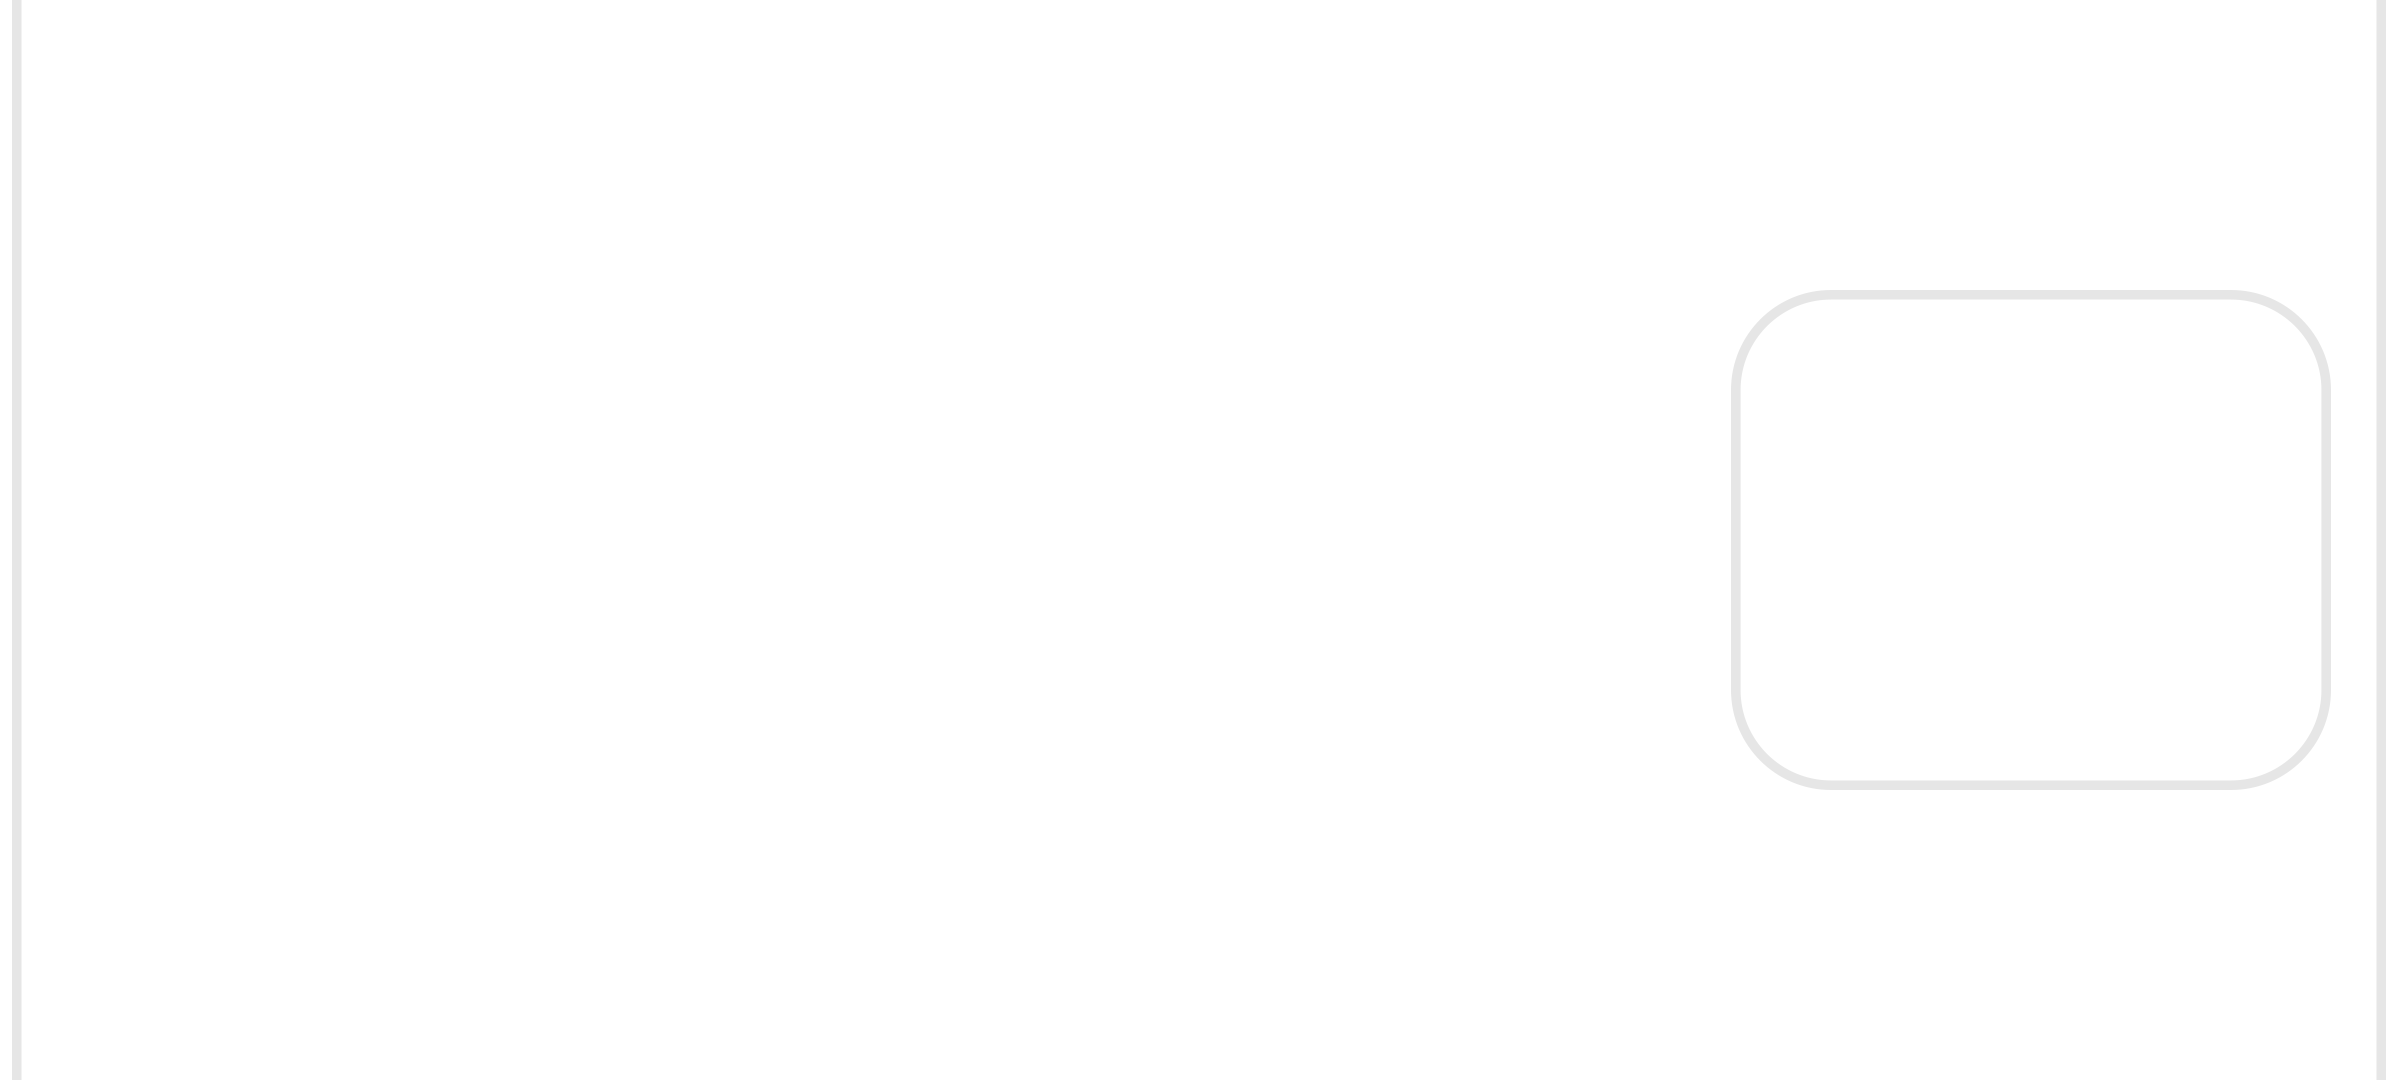
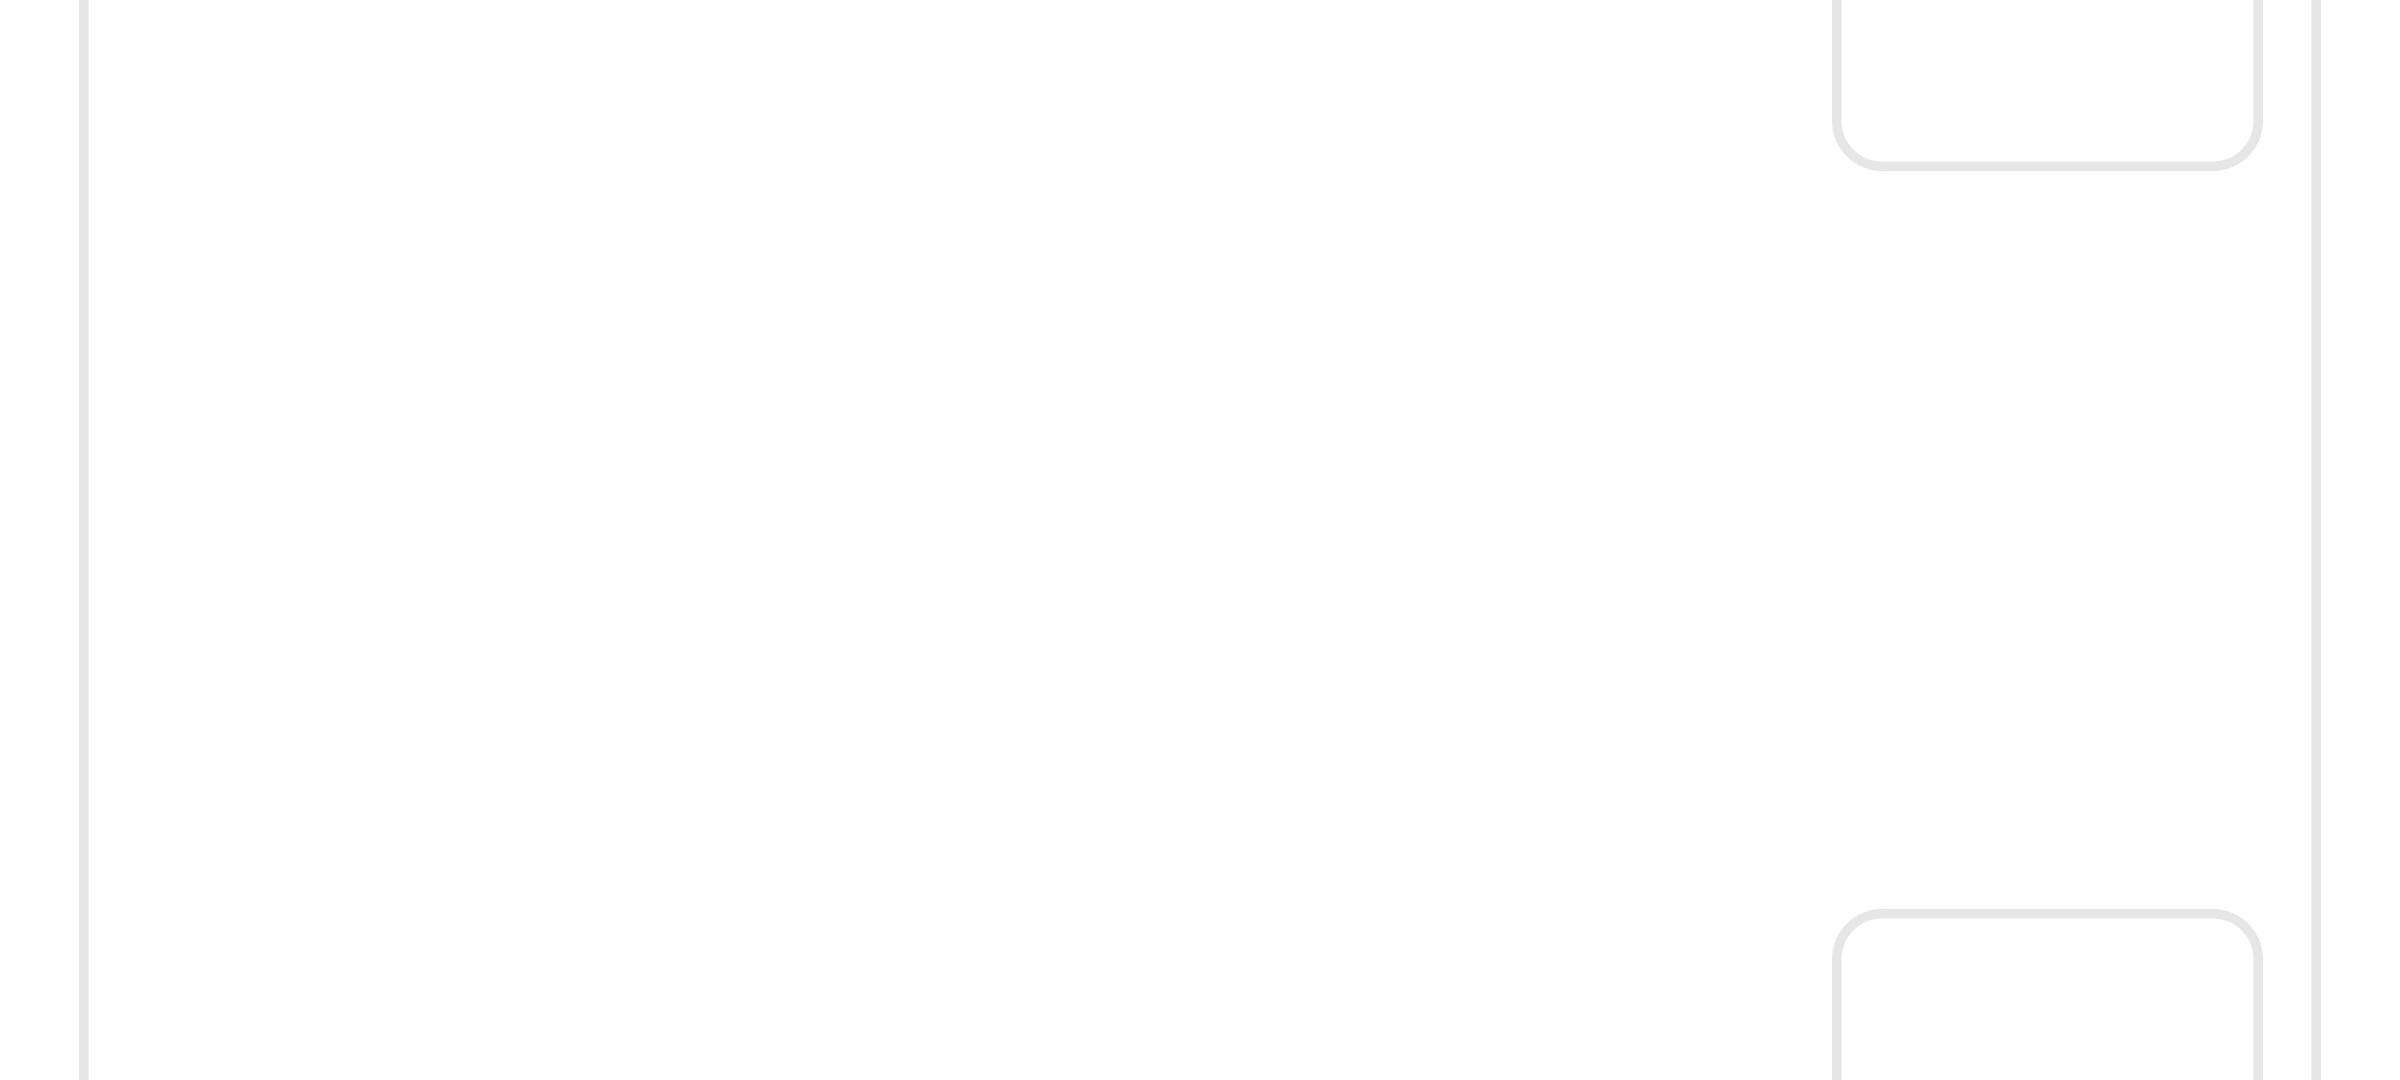
adjusted film fx

diff --git a/portfolio.md b/portfolio.md
@@ -71,8 +71,8 @@ html, body {
   /* For browsers that do not support gradients */
   /* background-image: linear-gradient(#55646e, #c8c8c8 20%);  url('https://raw.githubusercontent.com/BillyJoelsNightmareExplosion/BillyJoelsNightmareExplosion.github.io/master/_files/photos/portfolio/blur.png'), */
   background-image: url('film-grain.gif'), url('https://raw.githubusercontent.com/BillyJoelsNightmareExplosion/BillyJoelsNightmareExplosion.github.io/master/_files/photos/portfolio/blur.png');
-  background-attachment: fixed, fixed;;
-  background-size: cover, cover;
+  background-attachment: fixed, fixed;
+  background-size: 1000px, cover;
 
 }
 h1 {
@@ -157,16 +157,22 @@ a:active {
 .projectTileFileGate {
   position: absolute;
   scale: 1.5 1.36;
-  left: 120px;
+  left: 80px;
   top: 40px;
   overflow: visible;
 }
 </style>
 
 Hello! Below you'll find my reel and links to some of my work that I've highlighted. If you're interested in contacting me or browsing the rest of this site, you can go to the [/home](/home) page.
+<meta name="viewport" content="width=device-width, initial-scale=1.0">
+<div>
 
 <div class="pj">
-<img class="projectTileFileGate" src="film-gate.png" >
+<picture>
+  <source srcset="1x1.png" media="(max-width: 1092px)">
+  <source srcset="film-gate.png">
+  <img class="projectTileFileGate" src="film-gate.png" style="width:auto;">
+</picture>
 <div class="videoWrapper">
 <iframe
 width="640"
@@ -216,8 +222,14 @@ a.fill-div {
 }
 </style>
 
+
+
 <div class="pj">
-<img class="projectTileFileGate" src="film-gate.png" >
+<picture>
+  <source srcset="1x1.png" media="(max-width: 1092px)">
+  <source srcset="film-gate.png">
+  <img class="projectTileFileGate" src="film-gate.png" style="width:auto;">
+</picture>
 <div class="projectTile">
 <a href="/landshark" class="fill-div">
 <img class="projectTileImage" src="https://raw.githubusercontent.com/BillyJoelsNightmareExplosion/BillyJoelsNightmareExplosion.github.io/master/_files/photos/landshark/portfolio_button.gif" >
@@ -228,7 +240,11 @@ a.fill-div {
 </div>
 
 <div class="pj">
-<img class="projectTileFileGate" src="film-gate.png" >
+<picture>
+  <source srcset="1x1.png" media="(max-width: 1092px)">
+  <source srcset="film-gate.png">
+  <img class="projectTileFileGate" src="film-gate.png" style="width:auto;">
+</picture>
 <div class="projectTile">
 <a href="https://alectrem.itch.io/doomed-tales" class="fill-div">
 <img class="projectTileImage" src="https://img.itch.zone/aW1hZ2UvMjE3NTg0Mi8xMjg1Mzc4My5naWY=/794x1000/qWsqK%2F.gif" >
@@ -239,7 +255,11 @@ a.fill-div {
 </div>
 
 <div class="pj">
-<img class="projectTileFileGate" src="film-gate.png" >
+<picture>
+  <source srcset="1x1.png" media="(max-width: 1092px)">
+  <source srcset="film-gate.png">
+  <img class="projectTileFileGate" src="film-gate.png" style="width:auto;">
+</picture>
 <div class="projectTile">
 <a href="https://youtu.be/QRKCdJUPjLg" class="fill-div">
 <img class="projectTileImage" src="https://raw.githubusercontent.com/BillyJoelsNightmareExplosion/BillyJoelsNightmareExplosion.github.io/master/_files/photos/portfolio/rx8.png" >
@@ -250,7 +270,11 @@ a.fill-div {
 </div>
 
 <div class="pj">
-<img class="projectTileFileGate" src="film-gate.png" >
+<picture>
+  <source srcset="1x1.png" media="(max-width: 1092px)">
+  <source srcset="film-gate.png">
+  <img class="projectTileFileGate" src="film-gate.png" style="width:auto;">
+</picture>
 <div class="projectTile">
 <a href="/project/2023/01/17/website.html" class="fill-div">
 <iframe class="projectTileImage" src="/project/2023/01/17/website.html" style="border:none;height:1000px;scrollbar-width:none;pointer-events:unset!important;" ></iframe>
@@ -261,7 +285,11 @@ a.fill-div {
 </div>
 
 <div class="pj">
-<img class="projectTileFileGate" src="film-gate.png" >
+<picture>
+  <source srcset="1x1.png" media="(max-width: 1092px)">
+  <source srcset="film-gate.png">
+  <img class="projectTileFileGate" src="film-gate.png" style="width:auto;">
+</picture>
 <div class="projectTile">
 <a href="https://alectrem.itch.io/squirreling-away" class="fill-div">
 <img class="projectTileImage" src="https://img.itch.zone/aW1hZ2UvMTk4NzcyMi8xMTY4OTQ0MS5wbmc=/794x1000/wC%2BRqc.png" >
@@ -272,7 +300,11 @@ a.fill-div {
 </div>
 
 <div class="pj">
-<img class="projectTileFileGate" src="film-gate.png" >
+<picture>
+  <source srcset="1x1.png" media="(max-width: 1092px)">
+  <source srcset="film-gate.png">
+  <img class="projectTileFileGate" src="film-gate.png" style="width:auto;">
+</picture>
 <div class="projectTile">
 <a href="https://alectrem.itch.io/who-killed-thelonious" class="fill-div">
 <img class="projectTileImage" src="https://img.itch.zone/aW1hZ2UvMTcyOTY2Ny8xMDE4NTYwNC5wbmc=/794x1000/lWVxVr.png" >
@@ -283,7 +315,11 @@ a.fill-div {
 </div>
 
 <div class="pj">
-<img class="projectTileFileGate" src="film-gate.png" >
+<picture>
+  <source srcset="1x1.png" media="(max-width: 1092px)">
+  <source srcset="film-gate.png">
+  <img class="projectTileFileGate" src="film-gate.png" style="width:auto;">
+</picture>
 <div class="projectTile">
 <a href="https://vimeo.com/365898993" class="fill-div">
 <img class="projectTileImage" src="https://i.vimeocdn.com/video/821777457-77235e8e54841902a7bd9c625ac63b2e8fdbee8520fa7b4a40d77d219b3c3a3f-d?mw=1600&mh=844&q=70" >
@@ -294,7 +330,11 @@ a.fill-div {
 </div>
 
 <div class="pj">
-<img class="projectTileFileGate" src="film-gate.png" >
+<picture>
+  <source srcset="1x1.png" media="(max-width: 1092px)">
+  <source srcset="film-gate.png">
+  <img class="projectTileFileGate" src="film-gate.png" style="width:auto;">
+</picture>
 <div class="projectTile">
 <a href="https://youtu.be/Dn0MROC39oQ" class="fill-div">
 <img class="projectTileImage" src="https://raw.githubusercontent.com/BillyJoelsNightmareExplosion/BillyJoelsNightmareExplosion.github.io/master/_files/photos/portfolio/dancethumbnail.webp" >
@@ -302,4 +342,6 @@ a.fill-div {
 <i class="fa fa-external-link-square"></i>
 </a>
 </div>
+</div>
+
 </div>
